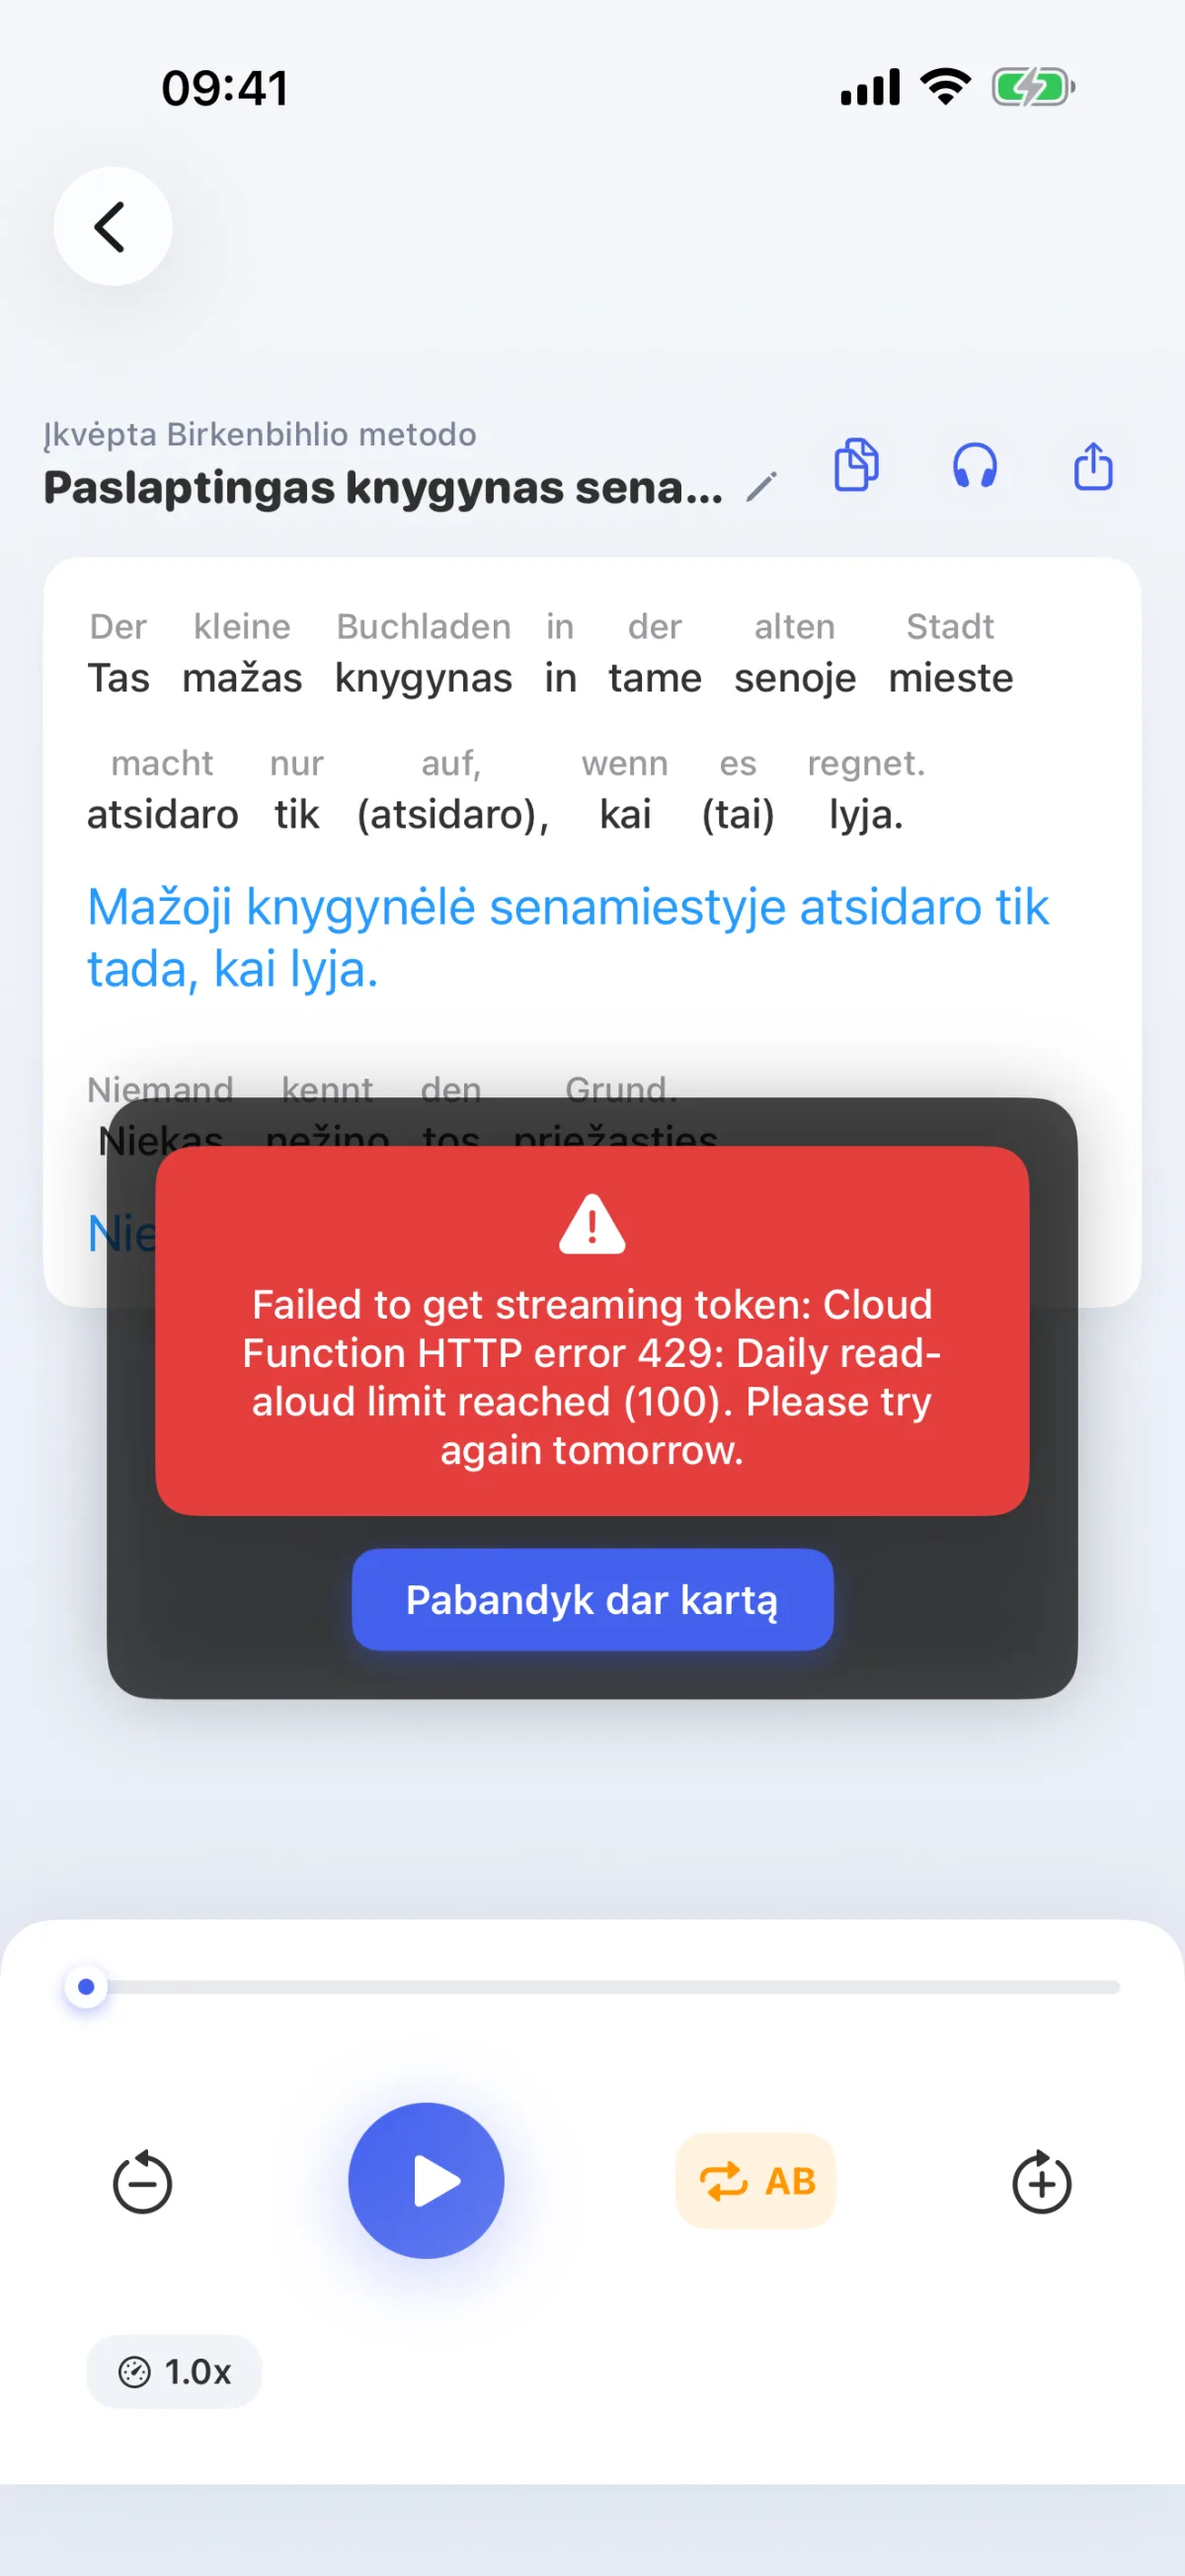
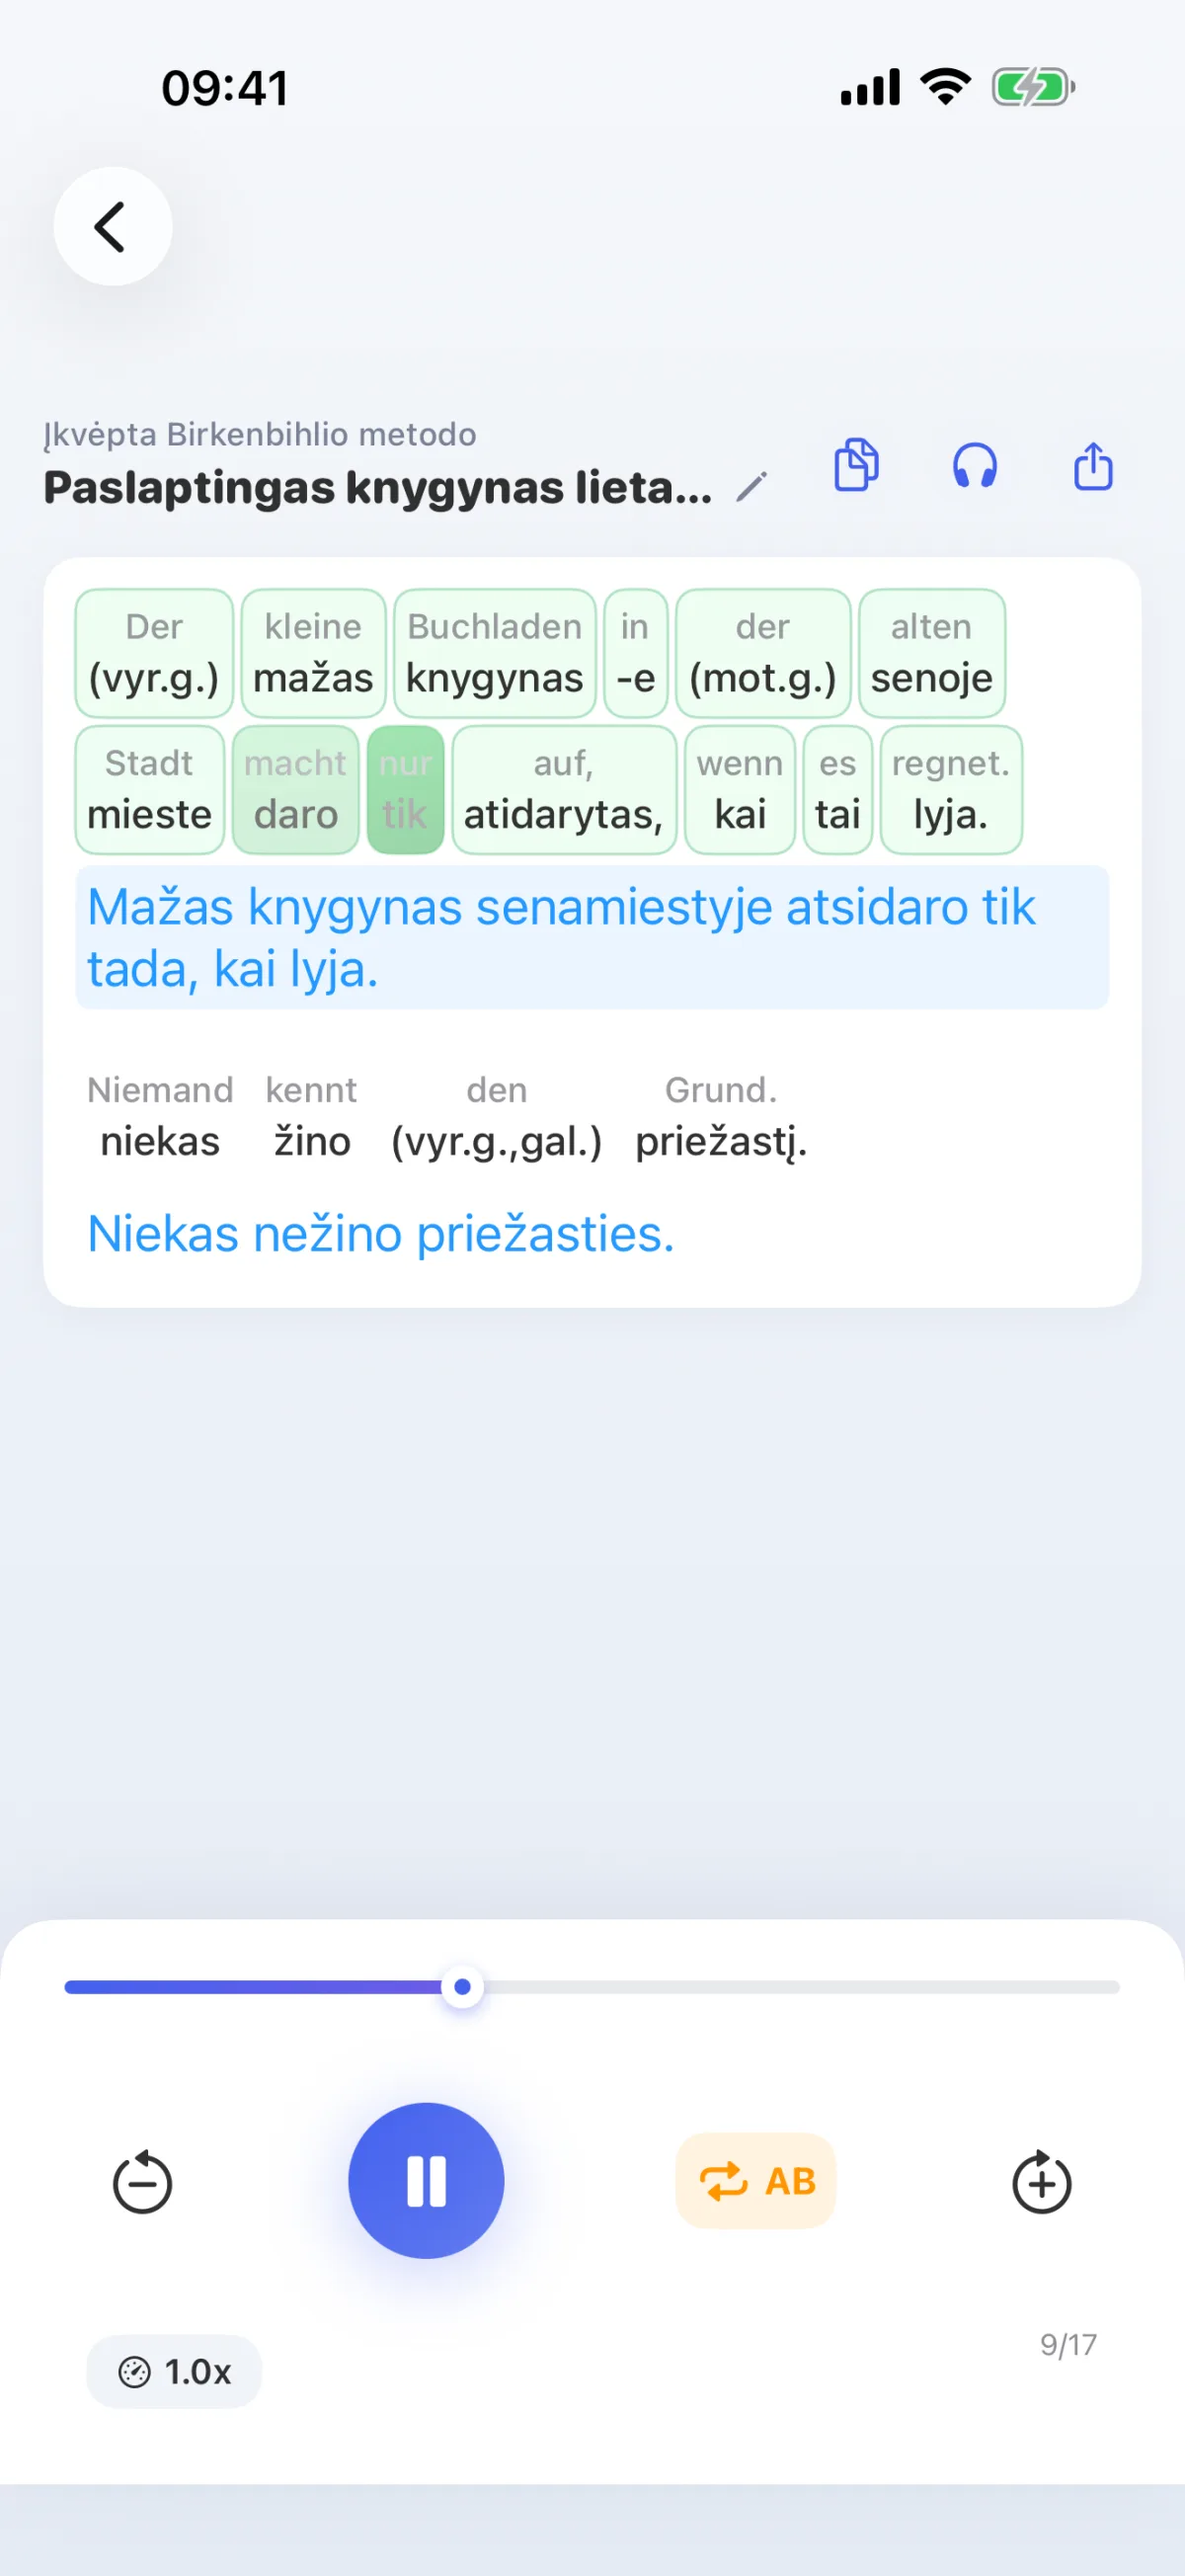
Gallery: clean Lithuanian image, docs / Galerie: sauberes litauisches Bild, Doku

diff --git a/scripts/build-screenshots.py b/scripts/build-screenshots.py
@@ -28,6 +28,13 @@ RAW = pathlib.Path.home() / "Developer/LinguaFlow Apps beide/Screenshots LinguaF
 # Aufnahmeläufe, NEUESTER ZUERST — ein neuer Lauf kommt vorne dazu.
 RUNS = ["2026-09-27 Roh-Screenshots", "2026-09-22 Roh-Screenshots 6-7", "2026-09-15 Roh-Screenshots"]
 OUT = REPO_ROOT / "img" / "screens"
+# Raw images that must never be used (e.g. an error dialog in the picture);
+# the next older recording is taken instead.
+# Rohbilder, die nie verwendet werden dürfen (z. B. Fehlermeldung im Bild);
+# stattdessen wird die nächstältere Aufnahme genommen.
+SKIP = {
+    "2026-09-27 Roh-Screenshots/iOS/lt Litauisch/02-decoded.png",  # read-aloud limit error / Vorlese-Limit-Fehler
+}
 
 # Output folder -> (platform, raw folder name). iOS where the iOS app has the
 # language, Android only for languages iOS lacks.
@@ -66,7 +73,7 @@ def newest(platform: str, folder: str, names: list):
     for name in names:
         for run in RUNS:
             p = RAW / run / platform / folder / f"{name}.png"
-            if p.exists():
+            if p.exists() and str(p.relative_to(RAW)) not in SKIP:
                 return p
     return None
 
@@ -88,7 +95,7 @@ def main() -> int:
                 continue
             # iPhone 1320 px -> 1200 px; Android stays 1080 px (no upscaling).
             # iPhone 1320 px -> 1200 px; Android bleibt 1080 px (nicht hochrechnen).
-            resize = ["-resize", "1200", "0"] if platform == "iOS" else []
+            resize = ["-resize", "1200", "0"] if "/iOS/" in str(src) else []
             dst = OUT / lang / f"{view}.webp"
             subprocess.run(["cwebp", "-quiet", "-q", "82", *resize, str(src), "-o", str(dst)], check=True)
             print(f"{lang}/{view}: {src.relative_to(RAW)}")

diff --git a/.claude/TODO.md b/.claude/TODO.md
@@ -1,7 +1,7 @@
 # TODO — linguaflow.app Website
 
 ## In Arbeit
-- [ ] **Galerie-Bilder pro Sprachversion (Session „Website-Screenshots aktualisieren", Branch `claude/website-screenshots-update-67a4b1`, Stand 2026-10-05)** — Umgesetzt und lokal geprüft, **wartet auf Christians Entscheidung + „passt"**. Jede Sprachversion zeigt die App in ihrer Oberflächensprache (`img/screens/<sprache>/`, 30 Ordner × 10 Ansichten, 20 MB WebP, gebaut mit `scripts/build-screenshots.py`), Ersatz-Zuordnung `SCREENSHOT_LANG` in `translate-site.py`. Galerie jetzt 10 Kacheln (+ Bibliothek, Buch lesen), Großansicht liest Texte aus den Kacheln. **Prüf-Befund (4 Agenten):** Die Ansichten Lektion, Dialog, Text generieren (nur Aufnahmelauf 2026-09-15 vorhanden) zeigen alte App-Fehler — englische Sprachnamen („German"), „Small Talk", „lld/11" (tr/ko/ja), kaputtes Layout (fi/sl/et/ro), Android-Knopf „Generate & Decode Text" (et/nl/sl/sv), Kauderwelsch-Knopf ko/textgen, ja/onboarding „続きを読む". **Nächste Schritte:** (1) Christian entscheidet: jetzt live + später nur Bilder tauschen (kostenlos, kein DeepL) oder warten; (2) Merge → DeepL-Lauf index.html (~27 €); (3) ERST NACH dem Lauf die 34 alten `img/screenshot-*`-Dateien löschen (Sprachordner zeigen bis dahin noch darauf); (4) Neuaufnahme Lektion/Dialog/Text generieren/Sprachwahl in eigener Session, dann neuen Lauf vorne in `RUNS` eintragen und `build-screenshots.py` erneut ausführen.
+- [ ] **Galerie-Bilder pro Sprachversion (Session „Website-Screenshots aktualisieren", Stand 2026-10-05)** — Christian hat Variante A gewählt: live mit den vorhandenen Bildern, **vorerst keine Neuaufnahme** („muss nicht 100 % perfekt sein"). Branch `claude/website-screenshots-update-67a4b1` per Fast-Forward nach `main` gepusht → DeepL-Lauf index.html (~27 €). **Nächste Schritte:** (1) Bot-Lauf abwarten, `git pull`; (2) prüfen, dass `/en/`, `/fr/`, `/th/`, `/sv/` … auf `/img/screens/<sprache>/` zeigen; (3) ERST DANN die 34 alten `img/screenshot-*` löschen (Freigabe Q8/Q12). Bekannte, bewusst akzeptierte Schönheitsfehler (Aufnahmelauf 2026-09-15): englische Sprachnamen in Dialog/Text generieren, „Small Talk", „lld/11" (tr/ko/ja Lektion), verrutschte Lektionen (fi/sl/et/ro, de), Android-Knopf „Generate & Decode Text" (et/nl/sl/sv), ko/textgen-Knopf, ja/onboarding „続きを読む", Suchwort im Verlauf (de „nous", fr „wir"). Falls später doch neu aufgenommen wird: neuen Lauf vorne in `RUNS` von `scripts/build-screenshots.py`, Skript laufen lassen — Bildertausch kostet kein DeepL.
 - [ ] **Rezensionsblock „Das sagen Lernende" auf der Startseite (DE + EN, Textzitate) — GEPLANT 2026-09-08, Plan `.claude/plan-rezensionen-website.md`, Umsetzung in neuer Session.** Drei 5★-Play-Rezensionen (Ben S., Stefan C., Dawid J.) als Zitate zwischen `#app` und `#preise`; keine Screenshots; nur `index.html` + `en/` + `en-gb/`, andere Sprachen per Cache-Trick/Block-Skip unangetastet (sonst ~5 € DeepL). **Vorher:** Ben um Zitat-Erlaubnis bitten; Bens englisches Original in der Play Console wörtlich nachlesen. App Store hat 0 schriftliche Rezensionen (API-geprüft).
 - [ ] **Facebook-/Instagram-Werbekampagne (Session „Facebook-Werbekampagne", Stand 2026-08-26)** — Kampagne `LinguaFlow – Traffic Test August 2026` liegt seit dem 16.08. als **Entwurf** im neuen Werbekonto „LinguaFlow App" (`1724098535586816`): Traffic, 10 €/Tag, 16.–23.08., AT/DE/CH, Interessen Fremdsprache + Fremdsprachenunterricht, Ziel-URL mit UTM-Parametern gesetzt. **Achtung: der eingestellte Zeitraum 16.–23.08. ist abgelaufen und muss neu gesetzt werden.** **Nächster Schritt:** verifizierte Telefonnummer hinterlegen (Meta-Fehler `#3858013`, blockiert die Auslieferung), dann Werbebild per Drag & Drop in Anzeige A, Texte A/B/C eintragen, veröffentlichen. Voller Stand inkl. Anzeigentexte, Bild-Rezept und Stolperfallen: `.claude/features/facebook-werbekampagne.md`. **Nicht ohne Rückfrage veröffentlichen** (kostet ab Klick echtes Geld).
 - [x] ~~**JSON-LD nachrüsten für die restlichen Seiten** (optional, ~7,25 €)~~ ✅ 2026-09-08 nebenbei erledigt: Die Nav-Vereinheitlichung hat Startseite, Ratgeber und die vier Artikel neu übersetzen lassen — `fr/index.html` und `fr/ratgeber*.html` tragen jetzt französisches JSON-LD (geprüft). Ursprünglich: (optional, ~7,25 €) — erledigt sind `hilfe.html` und die drei Cluster-Seiten. Offen mit noch deutschem Schema: `index.html` (5 Blöcke) sowie `ratgeber.html` und die vier Ratgeber-Artikel (je 1 Block), zusammen 362.736 Zeichen. Vorgehen wie bei hilfe.html: `gh workflow run "Retrofit JSON-LD (DeepL)" -f files="index.html ratgeber.html …"`, vorher mit `-f dry_run=true` prüfen. `was-ist-neu.html`, `newsletter.html` und `funktionen.html` haben kein JSON-LD und brauchen nichts
@@ -45,7 +45,8 @@
 
 ## Änderungsprotokoll
 
-- **2026-10-05 (Branch `claude/website-screenshots-update-67a4b1`)** – Galerie + Hero-Bild pro Sprachversion in der jeweiligen App-Sprache (Christians Entscheidungen Q1–Q13 im Grilling): iOS-Bilder für 26 Sprachen, Android für et/nl/sl/sv (Sprachwahl dort = englisches iPhone-Bild), Ersatz en-gb→en, pt-br/pt-pt→pt, zh-hant→zh, th/vi→en. Neueste Aufnahme je Ansicht (Läufe 27.09. > 22.09. > 15.09.), nur WebP. Neue Kacheln Bibliothek + Buch lesen, Beschreibungen sprachneutral (kein „Französisch" mehr). Neu: `scripts/build-screenshots.py`; `translate-site.py` biegt `/img/screens/de/` je Sprache um (SCRIPT_VERSION bewusst NICHT erhöht — sonst würde der ganze Cache verfallen). Lightbox liest Texte aus den Kacheln → zeigt künftig übersetzte Titel. Geprüft: alle 34 Sprachversionen per `adjust_html`-Simulation → 10 Bilder je Version, 0 fehlend; im Browser fr/th/sv/de: richtige Ordner, Lightbox 10 Folien, kein Querscrollen am Handy. Alte Bilder bleiben bis nach dem DeepL-Lauf liegen. Begriffe Sprachversion/Galerie/Ansicht/Aufnahmelauf in `CONTEXT.md`.
+- **2026-10-05 (Nachtrag, gleicher Branch)** – Unabhängiger Prüf-Agent (alle 300 Bilder angesehen, Code, Simulation, Browser): „Freigabe mit Vorbehalt". Behoben: `lt/decoding` zeigte eine englische App-Fehlermeldung („Daily read-aloud limit reached") — Rohbild vom 27.09. steht jetzt in `SKIP` in `build-screenshots.py`, genommen wird die saubere Aufnahme vom 15.09.; Sprachwahl-Ersatzbild der Android-Sprachen jetzt auch 1200 px (Verkleinern richtet sich nach der Herkunft des Bildes). Bewusst gelassen: Ordner `img/screens/ru/` (Website hat kein Russisch, 724 KB), leere `<picture>`-Hülle im Startbild. Christian: Variante A, live ohne Neuaufnahme.
+- **2026-10-05 (Branch `claude/website-screenshots-update-67a4b1`)** – Galerie + Hero-Bild pro Sprachversion in der jeweiligen App-Sprache (Christians Entscheidungen Q1–Q13 im Grilling): iOS-Bilder für 26 Sprachen, Android für et/nl/sl/sv (Sprachwahl dort = englisches iPhone-Bild), Ersatz en-gb→en, pt-br/pt-pt→pt, zh-hant→zh, th/vi→en. Neueste Aufnahme je Ansicht (Läufe 27.09. > 22.09. > 15.09.), nur WebP. Neue Kacheln Bibliothek + Buch lesen, Beschreibungen sprachneutral (kein „Französisch" mehr). Neu: `scripts/build-screenshots.py`; `translate-site.py` biegt `/img/screens/de/` je Sprache um (SCRIPT_VERSION bewusst NICHT erhöht — sonst würde der ganze Cache verfallen). Lightbox liest Texte aus den Kacheln → zeigt künftig übersetzte Titel. Geprüft: alle 33 übersetzten Sprachversionen per `adjust_html`-Simulation → je 11 Bildpfade (10 Kacheln + Startbild), 0 fehlend; im Browser fr/th/sv/de: richtige Ordner, Lightbox 10 Folien, kein Querscrollen am Handy. Alte Bilder bleiben bis nach dem DeepL-Lauf liegen. Begriffe Sprachversion/Galerie/Ansicht/Aufnahmelauf in `CONTEXT.md`.
 
 - **2026-09-17** – Neue Galerie „So sieht LinguaFlow aus" (Zweig `feature/screenshots-2026-09`) nach Christians Freigabe in `main` gemergt und gepusht → DeepL-Lauf für `index.html` (~27 €). Hinweis: Alle 34 Sprachversionen zeigen dieselben Bilder aus `img/` (deutsche App-Oberfläche, lernt Französisch); nur Überschriften/Beschreibungen sind übersetzt. Sprachspezifische Screenshots pro Website-Sprache wären ein eigener Auftrag (iOS-Serien für 26 Sprachen liegen in `LinguaFlow Apps beide/Screenshots LinguaFlow e.U.  Apps/2026-09-15 Roh-Screenshots/iOS`). Verwaiste Dateien `img/screenshot-books.*`, `screenshot-reader.*`, `*-lg.*`, `screenshot-premium.*` bleiben bis zur Lösch-Freigabe liegen.
 - **2026-09-15 (Zweig `feature/screenshots-2026-09`)** – Galerie „So sieht LinguaFlow aus" + Hero-Bild erneuert: 8 neue Screenshots (1200 px, WebP `cwebp -q 82`) aus dem automatischen Screenshot-Lauf (iPhone 17 Pro Max, App 3.1 Build 132, Quelle `LinguaFlow Apps beide/Screenshots LinguaFlow e.U.  Apps/2026-09-15 Roh-Screenshots/Homepage`). Beschreibungen, alt-Texte, `slides`-Array und Hero-alt angepasst (Beispielsprache jetzt Französisch statt Englisch). Lokal geprüft (http.server 8137): 8 Kacheln à 180×380, alle Bilder laden (1200 px), Lightbox blättert, `<div>`-Balance 125/125. Nur Quelle `index.html` geändert, keine Sprachordner. Push steht aus (siehe „In Arbeit").
